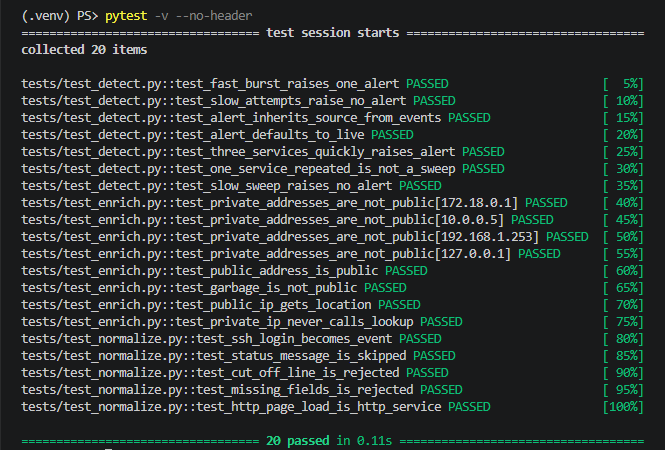
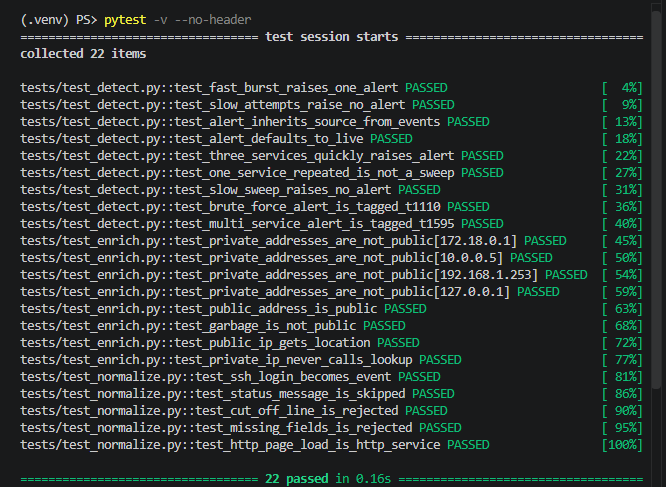
Update README and test screenshot for 22 tests and MITRE tags

diff --git a/README.md b/README.md
@@ -31,7 +31,7 @@ A honeypot threat-intelligence pipeline. Decoy services collect hostile traffic,
 | Storage | Events and alerts, with database constraints that block duplicates | PostgreSQL |
 | Dashboard | Metrics, world map, timeline, top countries, alerts, recent events, live/demo filter | Streamlit, Plotly |
 | Delivery | One command starts honeypot, database, ingest worker and dashboard | Docker Compose |
-| Quality | 20 unit tests, tests run on every push | pytest, GitHub Actions |
+| Quality | 22 unit tests, tests run on every push | pytest, GitHub Actions |
 
 ## How it works
 
@@ -59,10 +59,10 @@ The ingest worker remembers a byte offset in the log file, so each cycle reads o
 
 ## Detection rules
 
-| Rule | Fires when | Severity |
-|---|---|---|
-| `brute_force` | 10 or more login attempts from one IP against one service within 5 minutes of the burst's first attempt | medium, high at 50 or more |
-| `multi_service_targeting` | one IP touches 3 or more different services within 30 minutes | low |
+| Rule | MITRE ATT&CK | Fires when | Severity |
+|---|---|---|---|
+| `brute_force` | [T1110](https://attack.mitre.org/techniques/T1110/) Brute Force | 10 or more login attempts from one IP against one service within 5 minutes of the burst's first attempt | medium, high at 50 or more |
+| `multi_service_targeting` | [T1595](https://attack.mitre.org/techniques/T1595/) Active Scanning | one IP touches 3 or more different services within 30 minutes | low |
 
 Only `login_attempt` events count toward brute force, so someone loading the login page ten times does not trigger it. A sustained attack is **one alert that grows**, not hundreds of rows. Thresholds are function arguments in `src/honeymap/detect.py`.
 
@@ -107,7 +107,7 @@ pip install pytest
 pytest
 ```
 
-![20 tests passing: detection rules, enrichment and the log parser](docs/images/tests-passing.png)
+![22 tests passing: detection rules, enrichment and the log parser](docs/images/tests-passing.png)
 
 ![CI passing on GitHub Actions](docs/images/ci-green.png)
 
@@ -141,6 +141,7 @@ All of them are bound to `127.0.0.1`, so nothing outside your machine can reach 
 - **Global activity:** one circle per place, sized by event count. Hover for country, events and sources.
 - **Activity over time:** events per hour, stacked by service.
 - **Detection alerts and recent events:** with the live/demo label on every row.
+- **Investigate a source IP:** pick an address to see its location, services hit, alerts, most-tried usernames and every event it sent.
 
 ![Events over time by service, top countries, and the alerts table](docs/images/dashboard-activity.png)
 
@@ -186,13 +187,15 @@ Every one of these was hit for real while building the project, not anticipated 
 | The Docker build failed with `/requirements.txt: not found` | The file was not in the project root | Created it in the right place, and added a `.dockerignore` so `.env`, `.venv` and the GeoIP data never enter an image |
 | A fresh clone would start with an empty database and a crashing worker | I had created the tables by hand with `psql` | Mounted `db/` into `/docker-entrypoint-initdb.d`, and proved it by wiping the volume with `docker compose down -v` and rebuilding from nothing |
 | A port-scan rule could not be built | OpenCanary's scan logging needs host-level networking that Docker Desktop on Windows does not provide, and the honeypot has only three ports anyway | Built `multi_service_targeting` instead. Its alerts use the service name `multiple` rather than an empty value, because two `NULL`s never count as equal in a `UNIQUE` constraint |
+| After adding the MITRE field, existing alerts stayed untagged | The alert upsert only updated a row when its event count changed | Widened the update condition with `IS DISTINCT FROM`, so the running worker backfilled every old alert on its next cycle with no manual migration |
 
 ## Limitations
 
 - **Not yet exposed to the internet.** The only live data so far is my own test traffic. The map is populated by synthetic data. A real deployment belongs on a dedicated, disposable VM, never a personal machine or home network.
 - **IP geolocation is an estimate.** Country is fairly reliable, city is a rough hint, and the coordinates are the middle of a region. VPNs and cloud hosts make the point rarely match the attacker.
 - **Demo data skews toward the United States,** because random IPv4 addresses do, not because attackers prefer it.
-- **Two detection rules.** There is no port-scan detection, no MITRE ATT&CK tagging, and no per-IP investigation view yet.
+- **Two detection rules.** There is no port-scan detection yet.
+- **The investigation view reads from the 2,000 most recent events** the dashboard loads, so a very active IP could show only part of its history.
 - **The SSH decoy has not been exercised** in my testing. The HTTP decoy is the one I tested end to end.
 - **No authentication on the dashboard.** It relies on being bound to localhost. It displays captured credentials, so keep it off public interfaces.
 - **Detection re-reads every stored event each cycle,** which is fine at this scale and would need a time window for large datasets.
